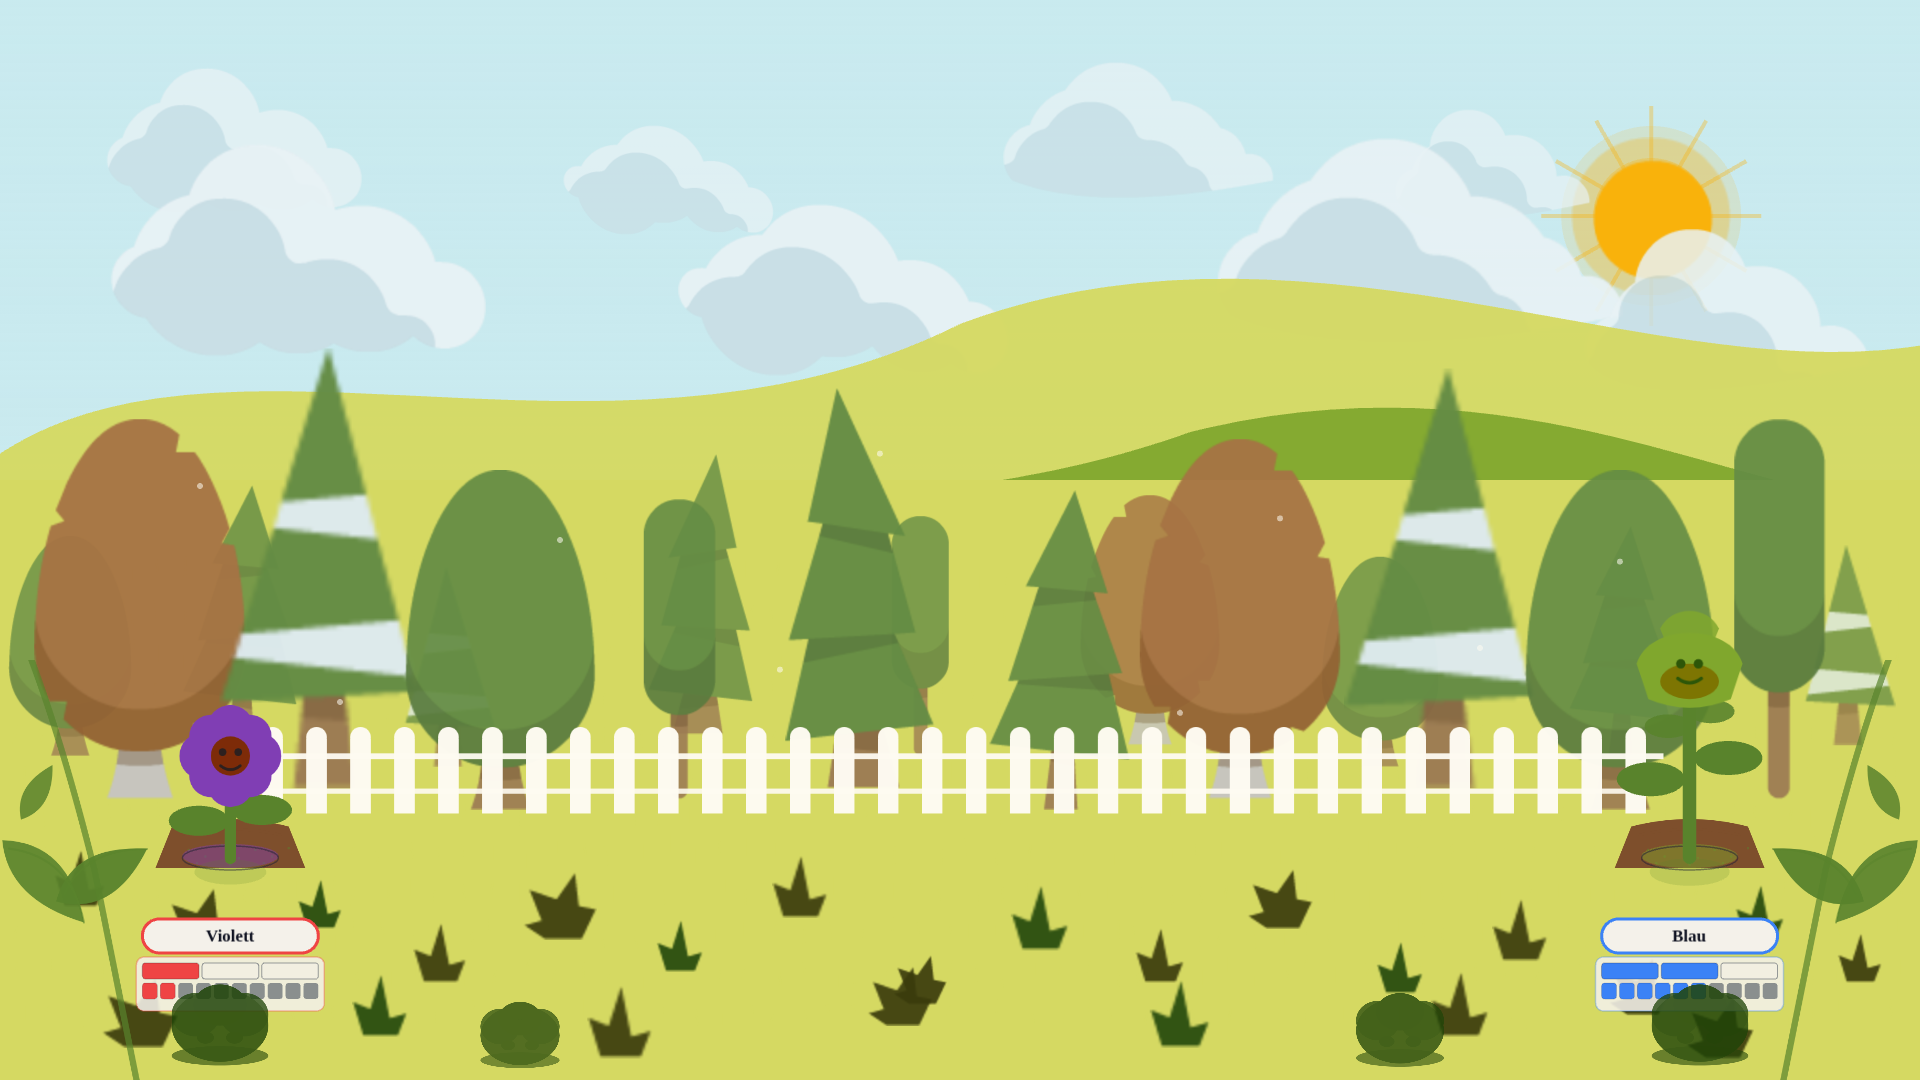
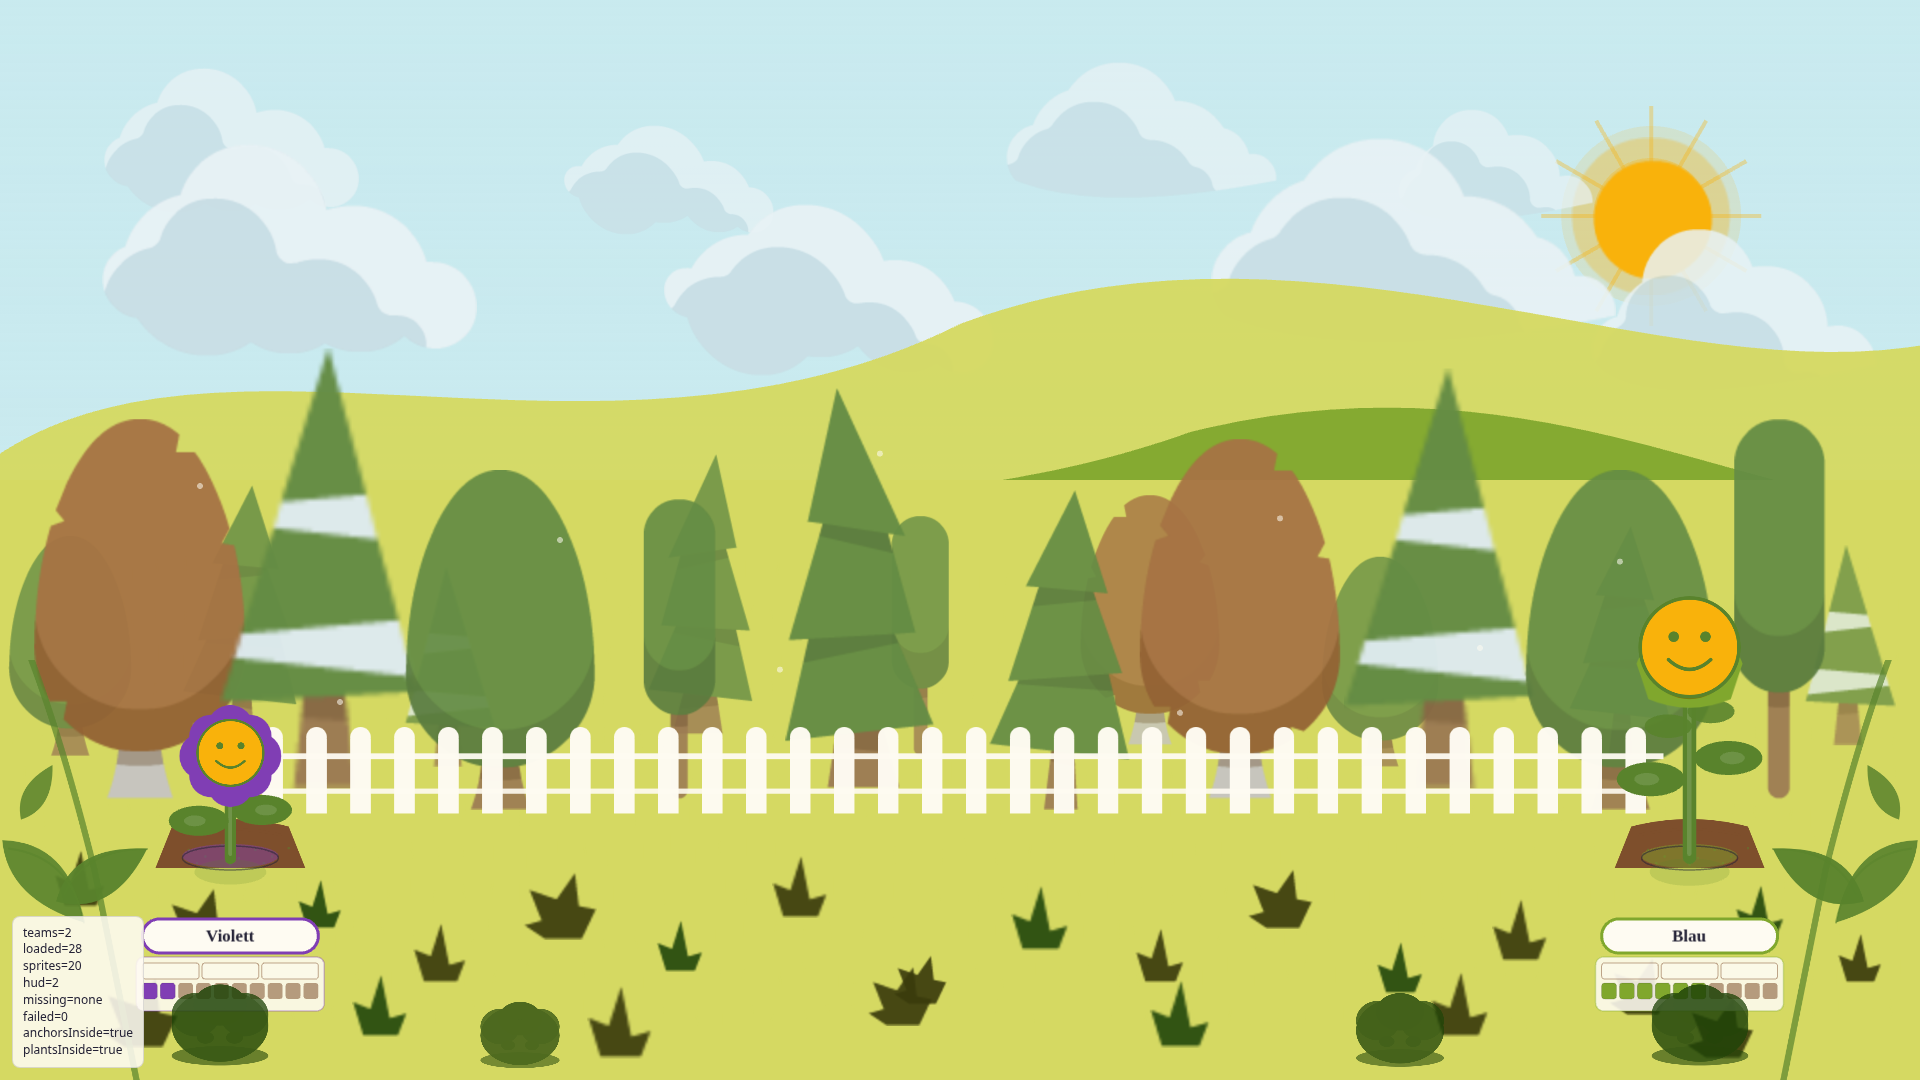
fix(flower-battle): integrate p0 presenter rescue glue
Wire faceTexture into GardenScene plants, drop duplicate preview HUDs
(scene owns team-hud-*), align HUD offset tests with TEAM_HUD_BELOW_ANCHOR_Y,
refresh 1920x1080 screenshots after full merge (loaded=28, hud=2|4).

diff --git a/packages/web/src/dev/garden-preview-main.ts b/packages/web/src/dev/garden-preview-main.ts
@@ -2,18 +2,12 @@
  * Dev-only garden preview for visual acceptance of the asset pipeline.
  * Open via Vite: /garden-preview.html?teams=2|4
  *
- * Mounts Pixi team HUD (name pill + 10-seg growth meter) under each plot so
- * composition screenshots include the presenter widgets without editing
- * GardenScene.
+ * Production path: attachGardenPixiApplication loads textures and
+ * createGardenScene wires layer sprites + team HUD under each plot.
  */
 
 import { attachGardenPixiApplication } from "../experiences/flower-battle/attachGardenPixiApplication"
 import type { ProceduralGardenScene } from "../experiences/flower-battle/rendering/GardenScene"
-import { resolveTeamPlotColors } from "../experiences/flower-battle/rendering/gardenPalette"
-import {
-  buildTeamHud,
-  resolveTeamHudPalette,
-} from "../experiences/flower-battle/rendering/teamHud"
 
 function readTeamCount(): number {
   try {
@@ -29,12 +23,9 @@ function teamSnapshots(count: number) {
   const names = ["Violett", "Blau", "Orange", "Grün"]
   // Growth spread across 0..MAX_GROWTH(=10) — matches live experience range.
   const growth = [2, 6, 10, 8]
-  // Sun charges for the 3-segment sub-meter
-  const sun = [1, 2, 3, 2]
   return Array.from({ length: count }, (_, i) => ({
     name: names[i] ?? `Team ${i + 1}`,
     growthStage: growth[i] ?? 6,
-    sunCurrent: sun[i] ?? 1,
   }))
 }
 
@@ -50,41 +41,12 @@ function waitFrames(n: number): Promise<void> {
   })
 }
 
-function mountPreviewTeamHuds(
-  procedural: ProceduralGardenScene,
-  teams: ReturnType<typeof teamSnapshots>,
-): number {
-  const hudLayer = procedural.layers.presenterHud
-  // Drop any previous preview HUDs (hot reload / re-run).
-  hudLayer.removeChildren().forEach((child) => {
-    child.destroy({ children: true })
-  })
-
-  const anchors = procedural.getPlotAnchors()
-  if (anchors.length === 0) return 0
-
-  const palette = resolveTeamHudPalette()
-  const teamColors = resolveTeamPlotColors(teams.length)
-  let mounted = 0
-
-  for (let i = 0; i < teams.length; i += 1) {
-    const team = teams[i]!
-    const anchor = anchors[i] ?? anchors[anchors.length - 1]
-    if (!anchor) continue
-    const hud = buildTeamHud({
-      anchor: { x: anchor.x, y: anchor.y },
-      teamName: team.name,
-      teamColor: teamColors[i] ?? teamColors[0]!,
-      palette,
-      growthCurrent: team.growthStage,
-      growthMax: 10,
-      sunCurrent: team.sunCurrent,
-      sunMax: 3,
-    })
-    hudLayer.addChild(hud)
-    mounted += 1
-  }
-  return mounted
+function countSceneTeamHuds(procedural: ProceduralGardenScene): number {
+  const layer = procedural.layers?.presenterHud
+  if (!layer?.children) return 0
+  return layer.children.filter(
+    (c) => typeof c.label === "string" && c.label.startsWith("team-hud-"),
+  ).length
 }
 
 async function main(): Promise<void> {
@@ -117,7 +79,7 @@ async function main(): Promise<void> {
   const teams = teamSnapshots(teamCount)
   if (typeof procedural.updateSnapshot === "function") {
     procedural.updateSnapshot({
-      teams: teams.map(({ name, growthStage }) => ({ name, growthStage })),
+      teams,
       phase: "preview",
     })
   }
@@ -131,10 +93,9 @@ async function main(): Promise<void> {
       Math.max(1, canvas.clientHeight || 1080),
     )
   }
-  await waitFrames(2)
-
-  const hudMounted = mountPreviewTeamHuds(procedural, teams)
   await waitFrames(3)
+
+  const hudMounted = countSceneTeamHuds(procedural)
 
   const diag = procedural.assetDiagnostics
   const winDiag = (

diff --git a/packages/web/src/experiences/flower-battle/rendering/__tests__/GardenScene.test.ts b/packages/web/src/experiences/flower-battle/rendering/__tests__/GardenScene.test.ts
@@ -8,6 +8,7 @@ import { describe, expect, it } from "vitest"
 
 import type { GardenPixiApplicationHandle } from "../../garden-pixi.types"
 import { createGardenScene, LAYER_LABELS } from "../GardenScene"
+import { TEAM_HUD_BELOW_ANCHOR_Y } from "../teamHud"
 import type { GardenPalette } from "../gardenPalette"
 import {
   computeVisibleLogicalRect,
@@ -234,9 +235,9 @@ describe("createGardenScene", () => {
       // HUD sits under the plant anchor (buildTeamHud offsets y by +56).
       const anchors = scene.getPlotAnchors()
       expect(huds[0]!.position.x).toBe(anchors[0]!.x)
-      expect(huds[0]!.position.y).toBe(anchors[0]!.y + 56)
+      expect(huds[0]!.position.y).toBe(anchors[0]!.y + TEAM_HUD_BELOW_ANCHOR_Y)
       expect(huds[1]!.position.x).toBe(anchors[1]!.x)
-      expect(huds[1]!.position.y).toBe(anchors[1]!.y + 56)
+      expect(huds[1]!.position.y).toBe(anchors[1]!.y + TEAM_HUD_BELOW_ANCHOR_Y)
 
       scene.destroy()
     })
@@ -322,7 +323,7 @@ describe("createGardenScene", () => {
       )!
       const anchors = scene.getPlotAnchors()
       expect(hud4.position.x).toBe(anchors[0]!.x)
-      expect(hud4.position.y).toBe(anchors[0]!.y + 56)
+      expect(hud4.position.y).toBe(anchors[0]!.y + TEAM_HUD_BELOW_ANCHOR_Y)
       // On 4:3 the visible band crops left/right so anchors (and HUDs) move.
       expect(hud4.position.x).not.toBe(x16)
 

diff --git a/packages/web/src/experiences/flower-battle/rendering/GardenScene.ts b/packages/web/src/experiences/flower-battle/rendering/GardenScene.ts
@@ -223,6 +223,10 @@ export function createGardenScene(
     return plantHeads[key]
   }
 
+  function faceTextureForPlants(): Texture | undefined {
+    return plantHeads?.faceHappy
+  }
+
   function ensureTeamTints(count: number): void {
     if (teamTints.length >= count) return
     if (options.resolveColor) {
@@ -346,6 +350,7 @@ export function createGardenScene(
         },
         label: `actor-plant-${index}`,
         headTexture: headTextureForIndex(index),
+        faceTexture: faceTextureForPlants(),
       })
       plants.push(plant)
       // SDD §30 probe-v3: per-plant team name parallel to the actorPlants
